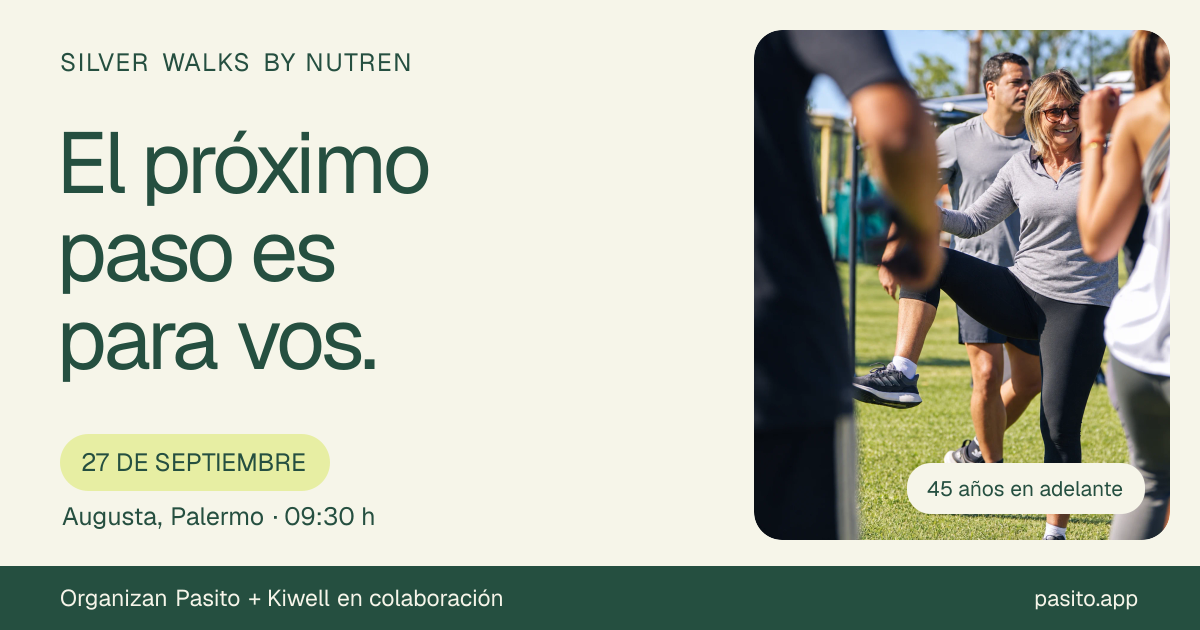
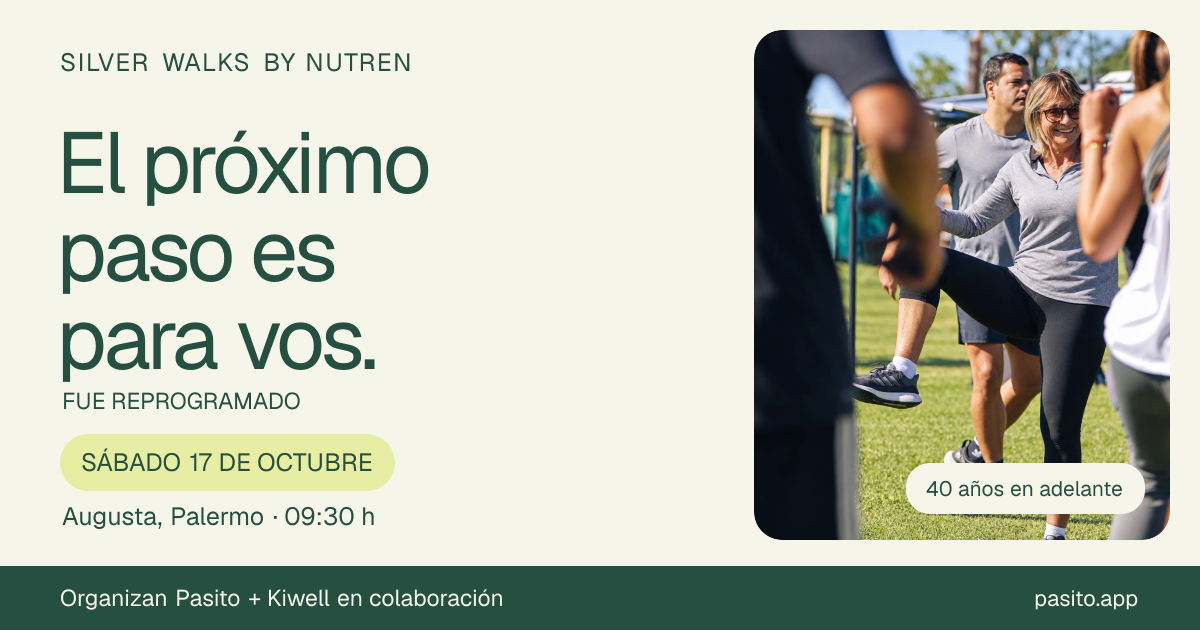
Reopen Silver Walks sales for Saturday October 17

diff --git a/app/silver/page.tsx b/app/silver/page.tsx
@@ -30,16 +30,16 @@ export const viewport: Viewport = {
 export const metadata: Metadata = {
   title: 'Silver Walks by Nutren · Un buen momento para vos',
   description:
-    'Una mañana para moverte, aprender y compartir. 17 de octubre, 09:30 a 13:00, Augusta, Palermo. Organizado por Pasito + Kiwell en colaboración.',
+    'Una mañana para moverte, aprender y compartir. Sábado 17 de octubre, 09:30 a 13:00, Augusta, Palermo. Organizado por Pasito + Kiwell en colaboración.',
   alternates: { canonical: 'https://www.pasito.app/silver' },
   openGraph: {
     title: 'Silver Walks by Nutren',
     description:
-      'El próximo paso es para vos. 17 de octubre · Augusta, Palermo.',
+      'Fue reprogramado. Sábado 17 de octubre · Augusta, Palermo.',
     url: 'https://www.pasito.app/silver',
     images: [
       {
-        url: 'https://www.pasito.app/silver/opengraph-image.png',
+        url: 'https://www.pasito.app/silver/opengraph-image.png?v=20261017',
         width: 1200,
         height: 630,
       },
@@ -49,7 +49,7 @@ export const metadata: Metadata = {
   twitter: {
     card: 'summary_large_image',
     title: 'Silver Walks by Nutren',
-    images: ['https://www.pasito.app/silver/opengraph-image.png'],
+    images: ['https://www.pasito.app/silver/opengraph-image.png?v=20261017'],
   },
 }
 const schedule = [
@@ -107,7 +107,7 @@ export default function SilverWalksPage() {
         Saltar al contenido
       </a>
       <div className={styles.announcement}>
-        DOMINGO 17 DE OCTUBRE <span>·</span> AUGUSTA, PALERMO <span>·</span>{' '}
+        SÁBADO 17 DE OCTUBRE <span>·</span> AUGUSTA, PALERMO <span>·</span>{' '}
         UNA MAÑANA PARA VOS
       </div>
       <nav className={styles.navbar} aria-label="Navegación del evento">
@@ -138,10 +138,10 @@ export default function SilverWalksPage() {
       </nav>
       <div className={styles.rescheduleNotice}>
         <div className={styles.rescheduleContent}>
-          <strong>Evento reprogramado</strong>
+          <strong>Fue reprogramado</strong>
           <p>
-            Silver Walks se reprogramó para el <strong>domingo 17 de octubre</strong> por lluvia.
-            Las ventas de entradas están pausadas.
+            Silver Walks fue reprogramado por lluvia. Nos encontramos el <strong>{SILVER_EVENT.shortDateLabel.toLowerCase()}</strong>.{' '}
+            La venta de entradas ya está activa.
           </p>
         </div>
       </div>
@@ -207,7 +207,7 @@ export default function SilverWalksPage() {
             className={styles.heroImg}
           />
           <div className={styles.dateStamp}>
-            <span>DOMINGO</span>
+            <span>SÁBADO</span>
             <strong>17</strong>
             <span>OCTUBRE</span>
           </div>
@@ -226,7 +226,7 @@ export default function SilverWalksPage() {
           <CalendarDays size={23} />
           <span>
             <small>AGENDALO</small>
-            <strong>17 de octubre</strong>
+            <strong>{SILVER_EVENT.shortDateLabel}</strong>
           </span>
         </div>
         <div>
@@ -312,7 +312,7 @@ export default function SilverWalksPage() {
       <section className={styles.agendaSection} id="agenda">
         <div className={`${styles.container} ${styles.agendaLayout}`}>
           <div className={styles.agendaIntro}>
-            <p className={styles.overline}>02 / EL PLAN DEL DOMINGO</p>
+            <p className={styles.overline}>02 / EL PLAN DEL SÁBADO</p>
             <h2>
               Una mañana.
               <br />

diff --git a/lib/silver-faq.ts b/lib/silver-faq.ts
@@ -21,13 +21,13 @@ export const SILVER_FAQS = [
     id: 'included',
     question: '¿Qué incluye mi entrada?',
     answer:
-      'La entrada general cuesta $35.000 ARS por persona e incluye la caminata guiada por Kiwell, elongación, charla de longevidad, brunch buffet en Augusta y kit de productos. Corresponde al encuentro del 27 de septiembre; no es una suscripción mensual.',
+      'La entrada general cuesta $35.000 ARS por persona e incluye la caminata guiada por Kiwell, elongación, charla de longevidad, brunch buffet en Augusta y kit de productos. Corresponde al encuentro del 17 de octubre; no es una suscripción mensual.',
   },
   {
     id: 'location',
     question: '¿Cuándo y dónde nos encontramos?',
     answer:
-      'El domingo 27 de septiembre de 2026, de 09:30 a 13:00, en Augusta, Palermo: Av. Ernesto Tornquist 6385, CABA.',
+      'El sábado 17 de octubre de 2026, de 09:30 a 13:00, en Augusta, Palermo: Av. Ernesto Tornquist 6385, CABA.',
   },
   {
     id: 'ticket',
@@ -39,7 +39,7 @@ export const SILVER_FAQS = [
     id: 'monthly',
     question: '¿Las Silver Walks se repiten?',
     answer:
-      'Sí, la propuesta es encontrarnos una vez al mes. Esta entrada es únicamente para la edición del 27 de septiembre. Las próximas fechas se anunciarán por separado.',
+      'Sí, la propuesta es encontrarnos una vez al mes. Esta entrada es únicamente para la edición del 17 de octubre. Las próximas fechas se anunciarán por separado.',
   },
 ] as const
 export type SilverFaqId = (typeof SILVER_FAQS)[number]['id']

diff --git a/app/terminos/silver-walks/page.tsx b/app/terminos/silver-walks/page.tsx
@@ -1,4 +1,5 @@
 import type { Metadata } from 'next'
+import { SILVER_EVENT } from '@/lib/silver-event'
 import Link from 'next/link'
 import Image from 'next/image'
 
@@ -60,7 +61,7 @@ export default function SilverWalksTermsPage() {
           Silver Walks by Nutren
         </h1>
         <p style={{ marginTop: '14px', color: '#7c7c65', fontSize: '15px', lineHeight: '22px' }}>
-          Versión vigente: septiembre de 2026
+          Versión vigente: 25 de septiembre de 2026
         </p>
 
         <section style={{ marginTop: '48px' }}>
@@ -74,7 +75,9 @@ export default function SilverWalksTermsPage() {
             1. Descripción del evento
           </h2>
           <p style={{ marginTop: '14px', color: '#585843', fontSize: '16px', lineHeight: '26px' }}>
-            Silver Walks by Nutren es un encuentro organizado por Pasito + Kiwell en colaboración que incluye:
+            Silver Walks by Nutren fue reprogramado para el {SILVER_EVENT.shortDateLabel.toLowerCase()} de 2026,
+            de {SILVER_EVENT.timeLabel}, en {SILVER_EVENT.venueLabel}.
+            Es un encuentro organizado por Pasito + Kiwell en colaboración que incluye:
           </p>
           <ul style={{ marginTop: '12px', paddingLeft: '24px', color: '#585843', fontSize: '16px', lineHeight: '26px' }}>
             <li>Caminata activa guiada</li>

diff --git a/app/eventos/page.tsx b/app/eventos/page.tsx
@@ -1,4 +1,5 @@
 import type { Metadata } from 'next'
+import { SILVER_EVENT } from '@/lib/silver-event'
 import Image from 'next/image'
 import Link from 'next/link'
 import { ArrowUpRight, CalendarDays, MapPin } from 'lucide-react'
@@ -39,7 +40,7 @@ export default function EventsPage() {
           </div>
           <div className={styles.copy}>
             <span className={styles.eyebrow}>
-              PRÓXIMO ENCUENTRO · BIENESTAR
+              FUE REPROGRAMADO · ENTRADAS DISPONIBLES
             </span>
             <h2>
               Silver Walks
@@ -53,7 +54,7 @@ export default function EventsPage() {
             </p>
             <span className={styles.fact}>
               <CalendarDays size={18} />
-              27 de septiembre · 09:30 a 13:00
+              {SILVER_EVENT.shortDateLabel} · {SILVER_EVENT.timeLabel}
             </span>
             <span className={styles.fact}>
               <MapPin size={18} />

diff --git a/lib/silver-event.ts b/lib/silver-event.ts
@@ -1,18 +1,19 @@
 export const SILVER_EVENT = {
   slug: 'silver-walks-2026-09',
   name: 'Silver Walks by Nutren',
-  dateLabel: 'Domingo 17 de octubre de 2026',
+  dateLabel: 'Sábado 17 de octubre de 2026',
+  shortDateLabel: 'Sábado 17 de octubre',
   timeLabel: '09:30 a 13:00',
   venueLabel: 'Augusta, Palermo',
   venueAddress: 'Av. Ernesto Tornquist 6385, CABA',
   currency: 'ARS',
   capacity: 200,
-  salesClosed: true,
+  salesClosed: false,
   maxTicketsPerOrder: 6,
 } as const
 
 export const SILVER_EVENT_TERMS_PATH = '/terminos/silver-walks'
-export const SILVER_EVENT_TERMS_VERSION = '2026-09'
+export const SILVER_EVENT_TERMS_VERSION = '2026-09-25'
 
 export const SILVER_TICKET_TIERS = [
   { position: 1, label: 'Entrada general', unitPrice: 35000, capacity: 200 },

diff --git a/app/silver/SilverTicketCheckout.tsx b/app/silver/SilverTicketCheckout.tsx
@@ -497,9 +497,8 @@ export function SilverTicketCheckout({ initialTiers = [] }: { initialTiers?: Tic
           ) : soldOut ? (
             <div className={styles.checkoutSoldOut} data-testid="checkout-sold-out" role="status">
               <p className={styles.checkoutEyebrow}>Entradas</p>
-              <h3>Ventas pausadas</h3>
-              <p>Las entradas para Silver Walks están temporalmente pausadas.</p>
-              <p>El evento fue reprogramado para el <strong>17 de octubre</strong> por lluvia.</p>
+              <h3>Entradas agotadas</h3>
+              <p>Se agotaron las entradas para este encuentro de Silver Walks.</p>
             </div>
           ) : (
             <div data-testid="checkout-quantity">
